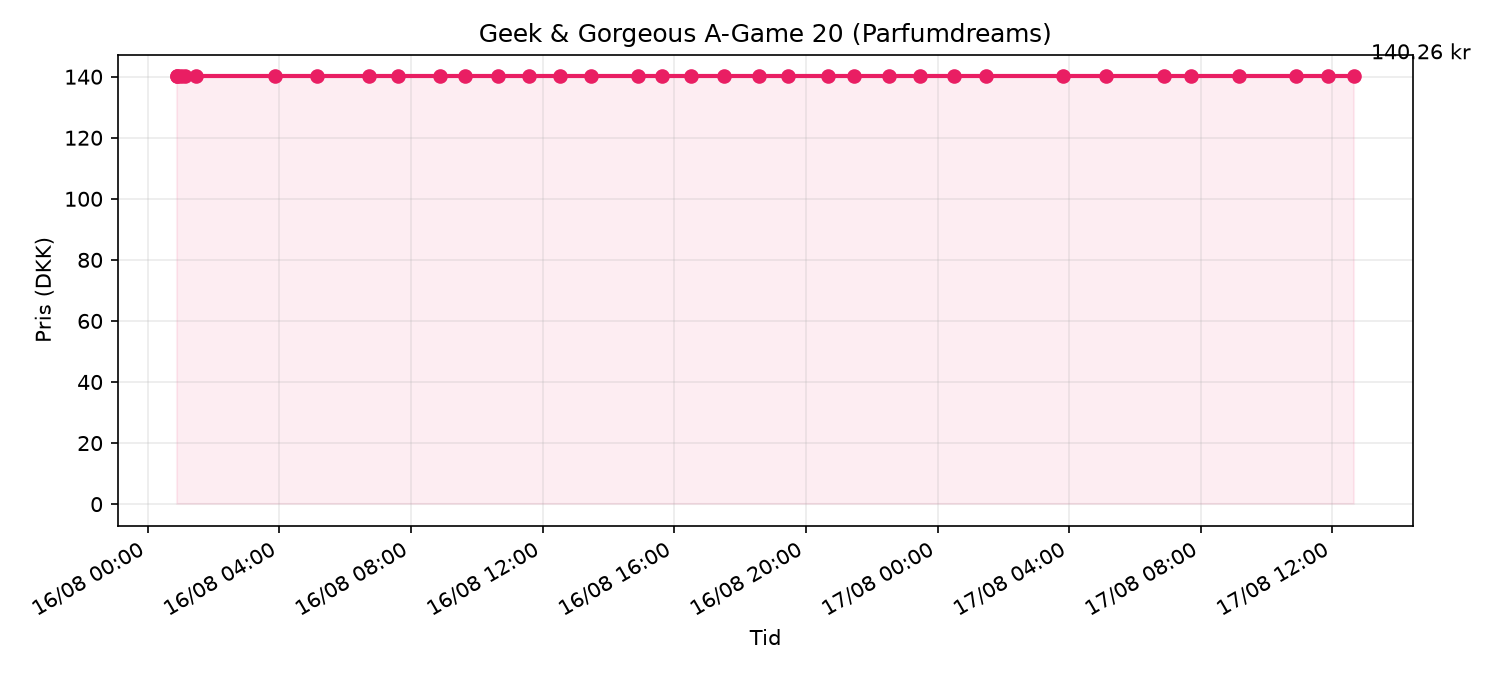
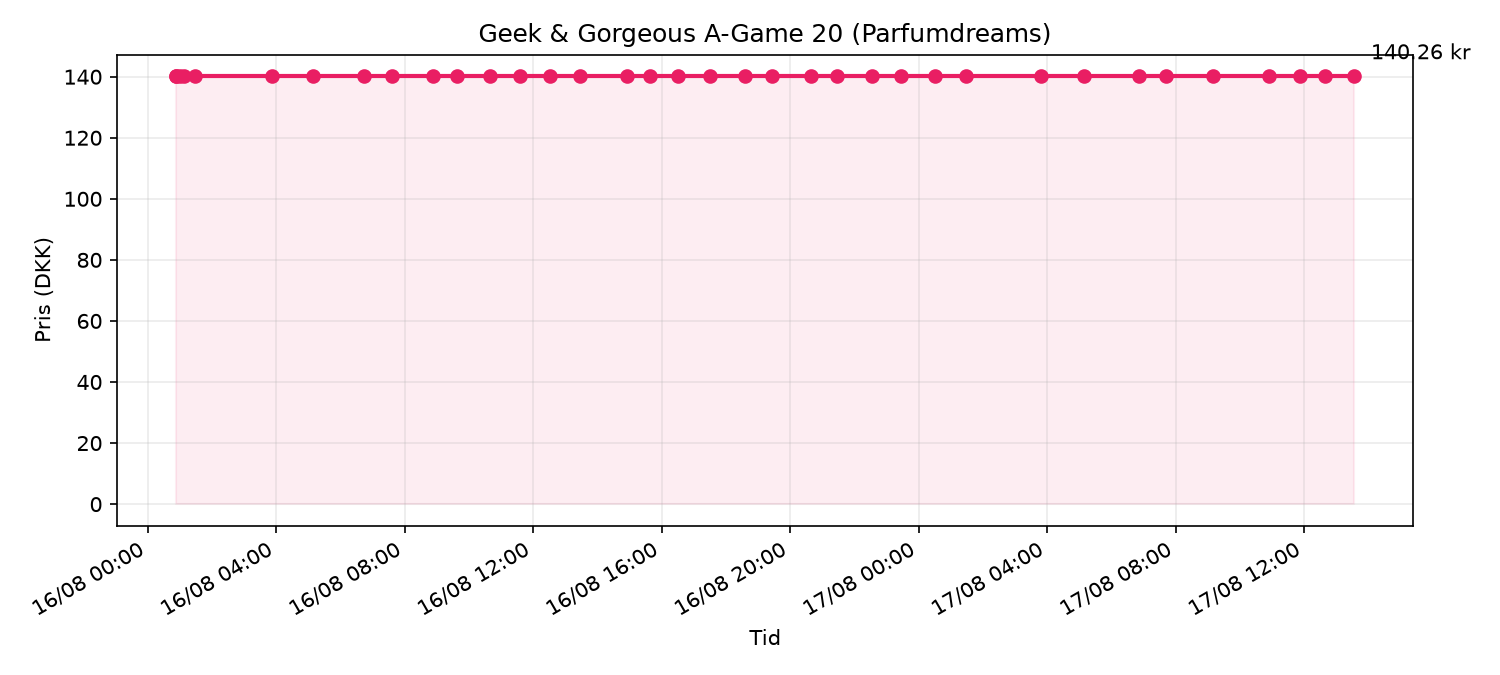
deploy: a20b72e5e6cdbd83efbfada53e2fcf8ad43bbf23

diff --git a/price_chart.html b/price_chart.html
@@ -13,7 +13,7 @@
 </head>
 <body>
   <h1>Geek & Gorgeous A-Game 20 (Parfumdreams)</h1>
-  <p class="meta">Senest tjekket: 17/08/2026 12:39 · Pris: <strong>140.26 kr</strong> · på lager</p>
+  <p class="meta">Senest tjekket: 17/08/2026 13:33 · Pris: <strong>140.26 kr</strong> · på lager</p>
   
   <p><a href="https://www.parfumdreams.dk/Geek-Gorgeous/Samlinger/101-aktive-stoffer/A-Game-20-Serum/index_137083.aspx?variation=221879">Åbn produkt på Parfumdreams</a></p>
   <img src="price_chart.png" alt="Prisgraf">
